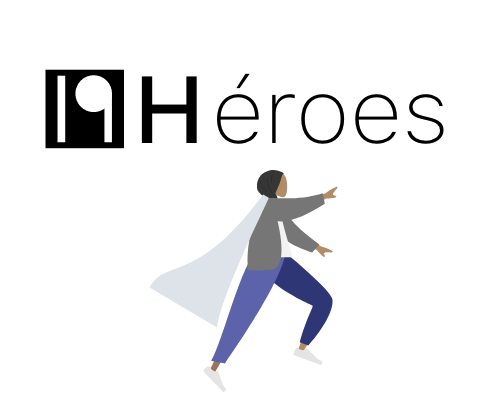
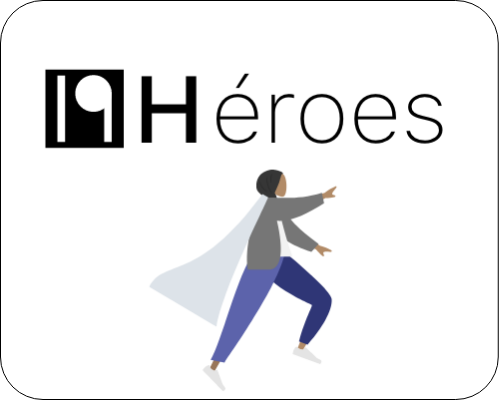
Cards dinamicas

diff --git a/index.html b/index.html
@@ -70,12 +70,84 @@
         <article class="project">
           <figure class="project-imageContainer">
             <figure class="event-imageContainer">
-              <a title="donatarios" href="https://landing.mexicovscovid191.mx/ayuda.php"><img
-                  src="../assets/img/heroes.png" alt="Card1" /></a>
+              <div class="card">
+                <div class="card-image waves-effect waves-block waves-light">
+                  <img class="activator" src="assets/img/heroes.png" alt="">
+                </div>
+                <div class="card-content">
+                  <span class="card-title gray-text activator text-darken-4">Donatarios, donantes, patrocinios<i
+                      class="material-icons right">more_vert</i></span>
+                </div>
+                <div class="card-reveal">
+                  <span class="card-title grey-text text-darken-4"> Trabajadores de la salud y hospitales<i
+                      class="material-icons right">close</i></span>
+                  <p> Conviértete en un heroe de verdad apoyando a un maker para fabricar equipo médico o dando tu
+                    donativo para comprar artículos médicos</p>
+                  <a class="waves-effect waves-teal btn-flat teal lighten-5" href="assets/img/heroes.png">IR</a>
+                </div>
+              </div>
+
             </figure>
         </article>
       </div>
+
+
+
+
+
       <div class="right">
+        <article class="project">
+          <figure class="project-imageContainer">
+            <figure class="event-imageContainer">
+              <div class="card">
+                <div class="card-image waves-effect waves-block waves-light">
+                  <img class="activator" src="assets/img/medicos.png" alt="">
+                </div>
+                <div class="card-content">
+                  <span class="card-title gray-text activator text-darken-4">MÉDICOS<i
+                      class="material-icons right">more_vert</i></span>
+                </div>
+                <div class="card-reveal">
+                  <span class="card-title grey-text text-darken-4">Médicos, hospitales y personal de salud.<i
+                      class="material-icons right">close</i></span>
+                  <p>Aquí podrás solicitar apoyo especial para profesionales de salud</p>
+                  <a class="waves-effect waves-teal btn-flat teal lighten-5" href="#">Regístrate</a>
+                </div>
+              </div>
+
+            </figure>
+        </article>
+      </div>
+
+
+
+      <div class="center">
+        <article class="project">
+          <figure class="project-imageContainer">
+            <figure class="event-imageContainer">
+              <div class="card">
+                <div class="card-image waves-effect waves-block waves-light">
+                  <img class="activator" src="assets/img/makers.png" alt="">
+                </div>
+                <div class="card-content">
+                  <span class="card-title gray-text activator text-darken-4">FABRICANTES
+                    <i class="material-icons right">more_vert</i></span>
+                </div>
+                <div class="card-reveal">
+                  <span class="card-title grey-text text-darken-4"> Makers<i
+                      class="material-icons right">close</i></span>
+                  <p>¡Bienvenido a la comunidad para fabricantes de tecnología 19Makers!</p>
+                  <a class="waves-effect waves-teal btn-flat teal lighten-5" href="assets/img/heroes.png">REGISTRATE</a>
+                </div>
+              </div>
+
+            </figure>
+        </article>
+      </div>
+    </div>
+  </section>
+
+  <!--<div class="right">
         <article class="project">
           <figure class="project-imageContainer">
             <figure class="event-imageContainer">
@@ -94,7 +166,7 @@
         </article>
       </div>
     </div>
-  </section>
+  </section>-->
   <footer class="footer z-depth-5">
     <div class="container">
       <div class="social">
@@ -135,7 +207,7 @@
       }
     }
   </script>
-  <script data-account="5C16rj2qY2" src="https://cdn.userway.org/widget.js"></script>
+  <script data-account="3tE0i3UiGQ" src="https://cdn.userway.org/widget.js"></script>
   <script src="https://cdnjs.cloudflare.com/ajax/libs/materialize/1.0.0/js/materialize.min.js"></script>
   <script>
     document.addEventListener('DOMContentLoaded', function () {

diff --git a/css/main.css b/css/main.css
@@ -20,6 +20,11 @@ p {
     text-align: justify;
 }
 
+.card {
+    color: black;
+    border-radius: 1em;
+}
+
 header nav {
     width: 100%;
     height: 70px;
